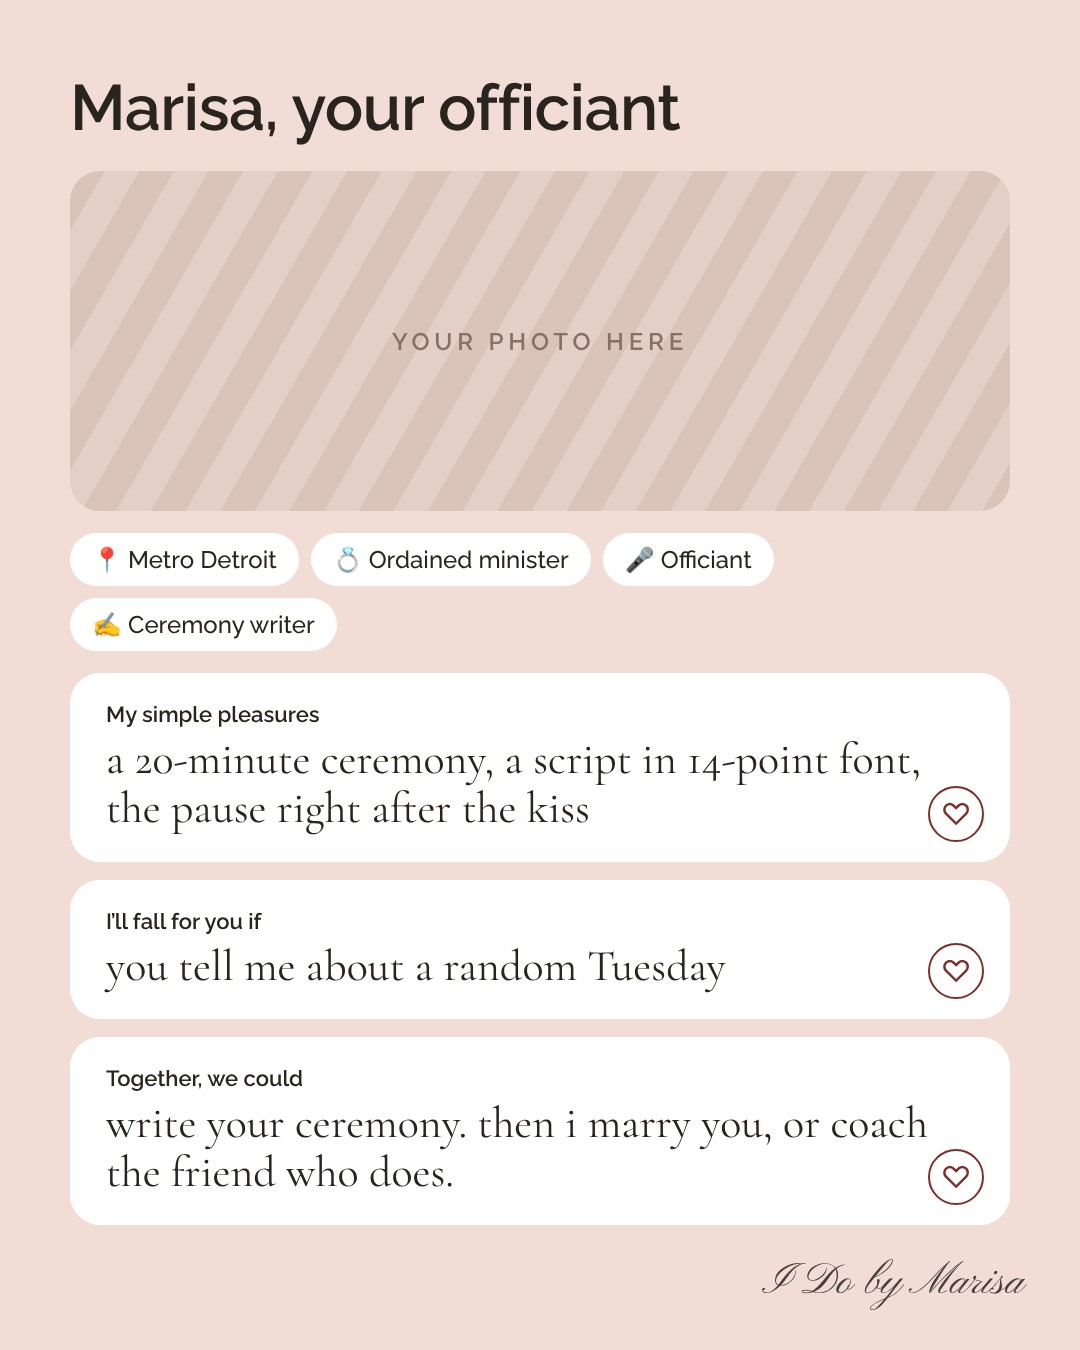
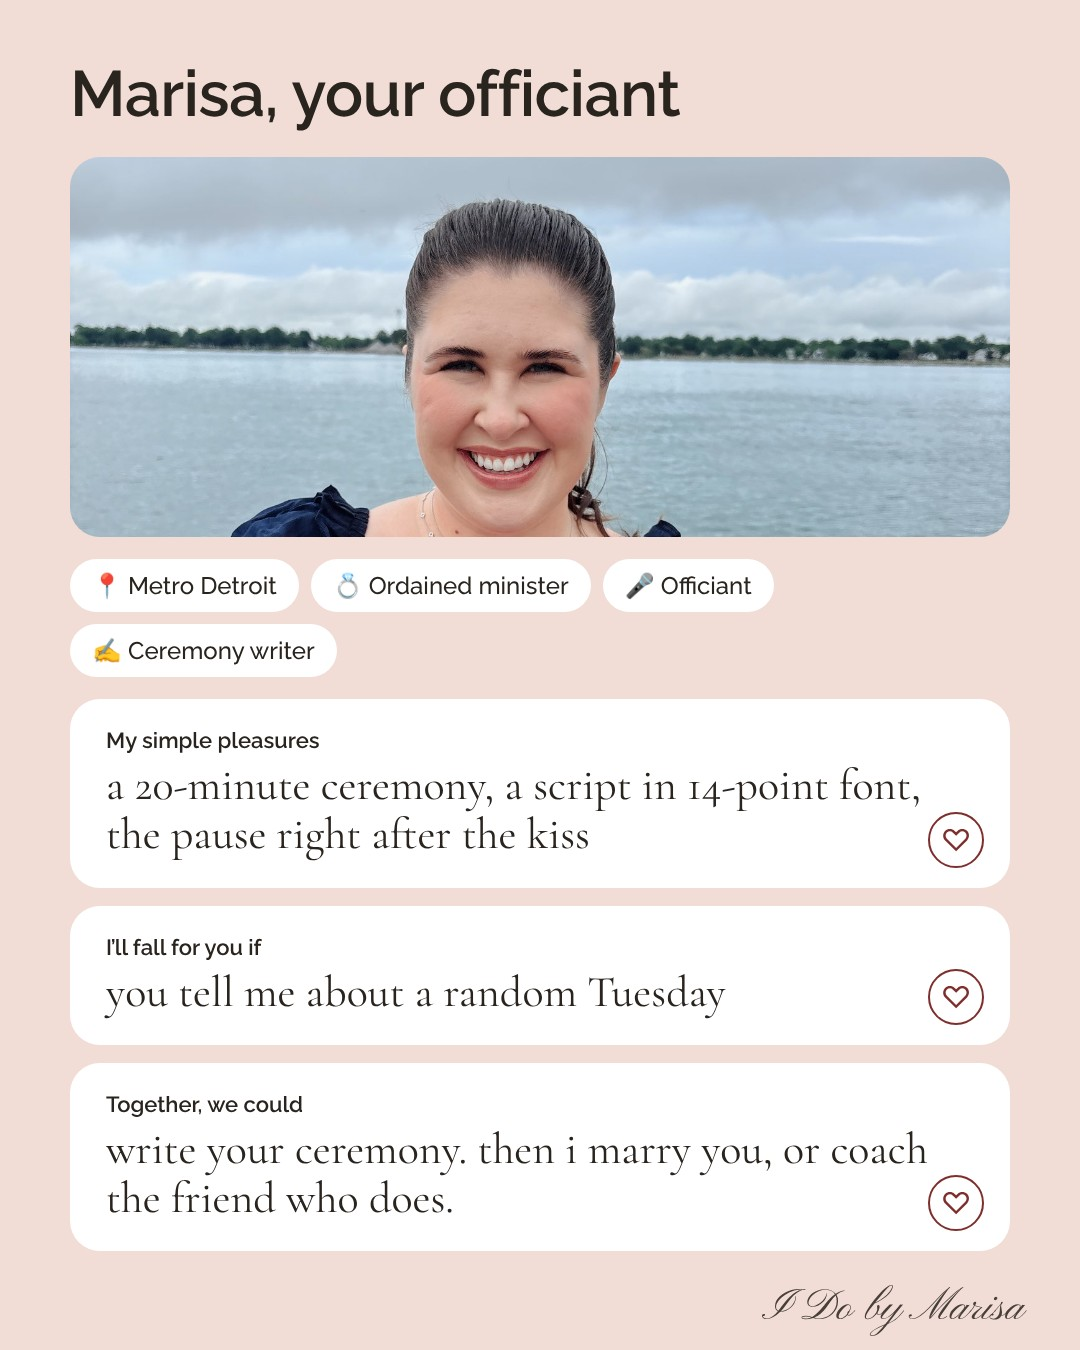
I Do: add Marisa's officiant shoot photos to hello, dating-profile and things-I-loved posts
Claude-Session: https://claude.ai/code/session_01CeoovJ21APbX2P2SCMoWFW

diff --git a/ido_cool/trend2.html b/ido_cool/trend2.html
@@ -5,9 +5,10 @@
 .cap{font:600 22px 'Raleway';letter-spacing:.32em;text-transform:uppercase}
 .logo{position:absolute;right:56px;bottom:40px;font:400 44px 'Pinyon Script';opacity:.85}
 /* profile */
-.pf{background:var(--blush);padding:70px 70px}
+.pf{background:var(--blush);padding:56px 70px}
+.pf .logo{bottom:14px}
 .pf .name{font:600 64px 'Raleway';letter-spacing:-.01em;margin:0}
-.pf .ph{height:340px;border-radius:30px;margin:26px 0 22px;background:repeating-linear-gradient(120deg,#d9c3bb 0 30px,#e4cfc8 30px 60px);display:flex;align-items:center;justify-content:center;font:600 24px 'Raleway';letter-spacing:.2em;color:#8a6f66}
+.pf .ph{height:380px;border-radius:30px;margin:26px 0 22px;background:repeating-linear-gradient(120deg,#d9c3bb 0 30px,#e4cfc8 30px 60px);display:flex;align-items:center;justify-content:center;font:600 24px 'Raleway';letter-spacing:.2em;color:#8a6f66}
 .chips{display:flex;flex-wrap:wrap;gap:12px;margin-bottom:22px}
 .chips span{background:#fff;border-radius:999px;padding:12px 22px;font:500 24px 'Raleway'}
 .card{background:#fff;border-radius:30px;padding:28px 36px;margin-bottom:18px;position:relative}
@@ -37,4 +38,4 @@
 .op p{margin:0 0 46px;font:400 52px/1.15 'Cormorant Garamond';padding-left:66px;position:relative}
 .op p::before{content:'🔥';position:absolute;left:0;top:2px;font-size:36px}
 .op .logo{color:var(--gold2)}
-</style></head><body><section class="s pf" id="profile"><p class="name">Marisa, your officiant</p><div class="ph">YOUR PHOTO HERE</div><div class="chips"><span>📍 Metro Detroit</span><span>💍 Ordained minister</span><span>🎤 Officiant</span><span>✍ Ceremony writer</span></div><div class="card"><b>My simple pleasures</b><p>a 20-minute ceremony, a script in 14-point font, the pause right after the kiss</p><i>♡</i></div><div class="card"><b>I’ll fall for you if</b><p>you tell me about a random Tuesday</p><i>♡</i></div><div class="card"><b>Together, we could</b><p>write your ceremony. then i marry you, or coach the friend who does.</p><i>♡</i></div><div class="logo">I Do by Marisa</div></section><section class="s fl" id="flags"><div class="cap" style="color:var(--gold);margin:0 0 16px">officiant edition</div><h1>green flags,<br>red flags</h1><div class="two"><div class="g"><h2>GREEN FLAGS</h2><p>asks how you met before anything else</p><p>times the ceremony to the minute</p><p>practices out loud (twice)</p><p>brings a printed script</p><p>knows how to pronounce every name</p></div><div class="r"><h2>RED FLAGS</h2><p>your names swapped into a template</p><p>reads off their phone</p><p>makes it about themselves</p><p>“dearly beloved” three times</p><p>wings it</p></div></div><div class="logo">I Do by Marisa</div></section><section class="s bg" id="bingo"><h1>ceremony bingo</h1><div class="cap sub">screenshot it · bring it to your next wedding</div><div class="board"><div>someone cries before the processional</div><div>the ring bearer goes rogue</div><div>dad cries first</div><div>a phone goes off</div><div>wind vs. the veil</div><div>flower girl stops mid-aisle</div><div>groom’s voice cracks</div><div>someone says “dearly beloved”</div><div>a guest whispers “aww” too loud</div><div>the officiant gets a laugh</div><div>a dog in the wedding</div><div>mom’s tissue is already out</div><div class="fr">I do</div><div>someone forgot the rings were in their pocket</div><div>perfect golden hour light</div><div>the kiss gets a standing ovation</div><div>a toddler narrates</div><div>vows that mention a tuesday</div><div>the couple whispers a secret joke</div><div>grandma steals the show</div><div>happy tears from the officiant</div><div>someone trips (gracefully)</div><div>the “i do” cracks the room up</div><div>the recessional dance</div><div>everyone cries. everyone.</div></div><div class="logo" style="bottom:28px">I Do by Marisa</div></section><section class="s op" id="opinions"><div class="cap" style="color:var(--gold2);margin:0 0 18px">officiant edition</div><h1>unpopular<br><span>opinions</span></h1><p>your ceremony should be shorter than your cocktail hour</p><p>vows are allowed to be funny</p><p>you don’t need a unity anything</p><p>the processional song matters more than the centerpieces</p><p>your officiant should know your story, not just your names</p><div class="logo">I Do by Marisa</div></section></body></html>
+</style></head><body><section class="s pf" id="profile"><p class="name">Marisa, your officiant</p><div class="ph" style="background:url(photos/me/officiant_01.jpg) center 22%/cover"></div><div class="chips"><span>📍 Metro Detroit</span><span>💍 Ordained minister</span><span>🎤 Officiant</span><span>✍ Ceremony writer</span></div><div class="card"><b>My simple pleasures</b><p>a 20-minute ceremony, a script in 14-point font, the pause right after the kiss</p><i>♡</i></div><div class="card"><b>I’ll fall for you if</b><p>you tell me about a random Tuesday</p><i>♡</i></div><div class="card"><b>Together, we could</b><p>write your ceremony. then i marry you, or coach the friend who does.</p><i>♡</i></div><div class="logo">I Do by Marisa</div></section><section class="s fl" id="flags"><div class="cap" style="color:var(--gold);margin:0 0 16px">officiant edition</div><h1>green flags,<br>red flags</h1><div class="two"><div class="g"><h2>GREEN FLAGS</h2><p>asks how you met before anything else</p><p>times the ceremony to the minute</p><p>practices out loud (twice)</p><p>brings a printed script</p><p>knows how to pronounce every name</p></div><div class="r"><h2>RED FLAGS</h2><p>your names swapped into a template</p><p>reads off their phone</p><p>makes it about themselves</p><p>“dearly beloved” three times</p><p>wings it</p></div></div><div class="logo">I Do by Marisa</div></section><section class="s bg" id="bingo"><h1>ceremony bingo</h1><div class="cap sub">screenshot it · bring it to your next wedding</div><div class="board"><div>someone cries before the processional</div><div>the ring bearer goes rogue</div><div>dad cries first</div><div>a phone goes off</div><div>wind vs. the veil</div><div>flower girl stops mid-aisle</div><div>groom’s voice cracks</div><div>someone says “dearly beloved”</div><div>a guest whispers “aww” too loud</div><div>the officiant gets a laugh</div><div>a dog in the wedding</div><div>mom’s tissue is already out</div><div class="fr">I do</div><div>someone forgot the rings were in their pocket</div><div>perfect golden hour light</div><div>the kiss gets a standing ovation</div><div>a toddler narrates</div><div>vows that mention a tuesday</div><div>the couple whispers a secret joke</div><div>grandma steals the show</div><div>happy tears from the officiant</div><div>someone trips (gracefully)</div><div>the “i do” cracks the room up</div><div>the recessional dance</div><div>everyone cries. everyone.</div></div><div class="logo" style="bottom:28px">I Do by Marisa</div></section><section class="s op" id="opinions"><div class="cap" style="color:var(--gold2);margin:0 0 18px">officiant edition</div><h1>unpopular<br><span>opinions</span></h1><p>your ceremony should be shorter than your cocktail hour</p><p>vows are allowed to be funny</p><p>you don’t need a unity anything</p><p>the processional song matters more than the centerpieces</p><p>your officiant should know your story, not just your names</p><div class="logo">I Do by Marisa</div></section></body></html>

diff --git a/ido_cool/me_posts.html b/ido_cool/me_posts.html
@@ -1,0 +1,7 @@
+<!doctype html><html><head><meta charset="utf-8"><link href="https://fonts.googleapis.com/css2?family=Pinyon+Script&display=swap" rel="stylesheet"><style>
+body{margin:0}.s{width:1080px;height:1350px;position:relative;overflow:hidden;background-size:cover;background-position:center 30%}
+.logo{position:absolute;right:48px;bottom:34px;font:400 46px 'Pinyon Script';color:#FBF7F0;text-shadow:0 1px 10px rgba(0,0,0,.35)}
+</style></head><body>
+<section class="s" id="hello" style="background-image:url(photos/me/officiant_12.jpg);background-position:center 0%"><div class="logo">I Do by Marisa</div></section>
+<section class="s" id="loved" style="background-image:url(photos/me/officiant_07.jpg);background-position:center 20%"><div class="logo">I Do by Marisa</div></section>
+</body></html>

diff --git a/ido_cool/shoot_me.js b/ido_cool/shoot_me.js
@@ -1,0 +1,5 @@
+const {chromium}=require('playwright');const path=require('path');
+(async()=>{const b=await chromium.launch();const p=await b.newPage({viewport:{width:1080,height:1350}});
+await p.goto('file://'+path.join(__dirname,'me_posts.html'));await p.evaluate(()=>document.fonts.ready);await p.waitForTimeout(800);
+for(const id of ['hello','loved']) await p.locator('#'+id).screenshot({path:path.join(__dirname,'out','IDo_me_'+id+'.jpg'),type:'jpeg',quality:90});
+await b.close();})();

diff --git a/ido_cool/trend2.py b/ido_cool/trend2.py
@@ -8,9 +8,10 @@ CSS = """
 .cap{font:600 22px 'Raleway';letter-spacing:.32em;text-transform:uppercase}
 .logo{position:absolute;right:56px;bottom:40px;font:400 44px 'Pinyon Script';opacity:.85}
 /* profile */
-.pf{background:var(--blush);padding:70px 70px}
+.pf{background:var(--blush);padding:56px 70px}
+.pf .logo{bottom:14px}
 .pf .name{font:600 64px 'Raleway';letter-spacing:-.01em;margin:0}
-.pf .ph{height:340px;border-radius:30px;margin:26px 0 22px;background:repeating-linear-gradient(120deg,#d9c3bb 0 30px,#e4cfc8 30px 60px);display:flex;align-items:center;justify-content:center;font:600 24px 'Raleway';letter-spacing:.2em;color:#8a6f66}
+.pf .ph{height:380px;border-radius:30px;margin:26px 0 22px;background:repeating-linear-gradient(120deg,#d9c3bb 0 30px,#e4cfc8 30px 60px);display:flex;align-items:center;justify-content:center;font:600 24px 'Raleway';letter-spacing:.2em;color:#8a6f66}
 .chips{display:flex;flex-wrap:wrap;gap:12px;margin-bottom:22px}
 .chips span{background:#fff;border-radius:999px;padding:12px 22px;font:500 24px 'Raleway'}
 .card{background:#fff;border-radius:30px;padding:28px 36px;margin-bottom:18px;position:relative}
@@ -43,7 +44,7 @@ CSS = """
 """
 S = []
 S.append('<section class="s pf" id="profile"><p class="name">Marisa, your officiant</p>'
- '<div class="ph">YOUR PHOTO HERE</div>'
+ '<div class="ph" style="background:url(photos/me/officiant_01.jpg) center 22%/cover"></div>'
  '<div class="chips"><span>📍 Metro Detroit</span><span>💍 Ordained minister</span><span>🎤 Officiant</span><span>✍ Ceremony writer</span></div>'
  '<div class="card"><b>My simple pleasures</b><p>a 20-minute ceremony, a script in 14-point font, the pause right after the kiss</p><i>♡</i></div>'
  '<div class="card"><b>I’ll fall for you if</b><p>you tell me about a random Tuesday</p><i>♡</i></div>'
